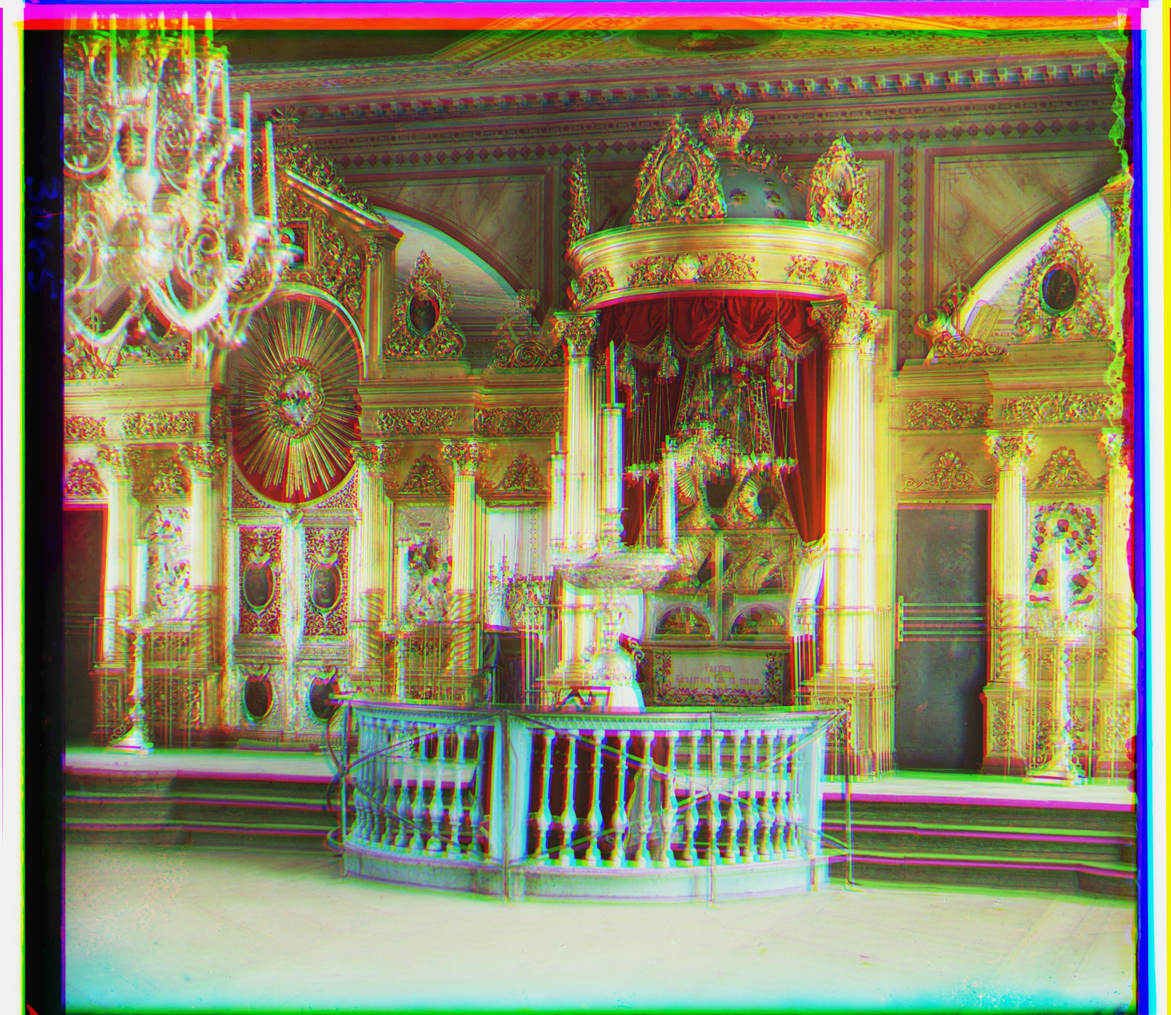
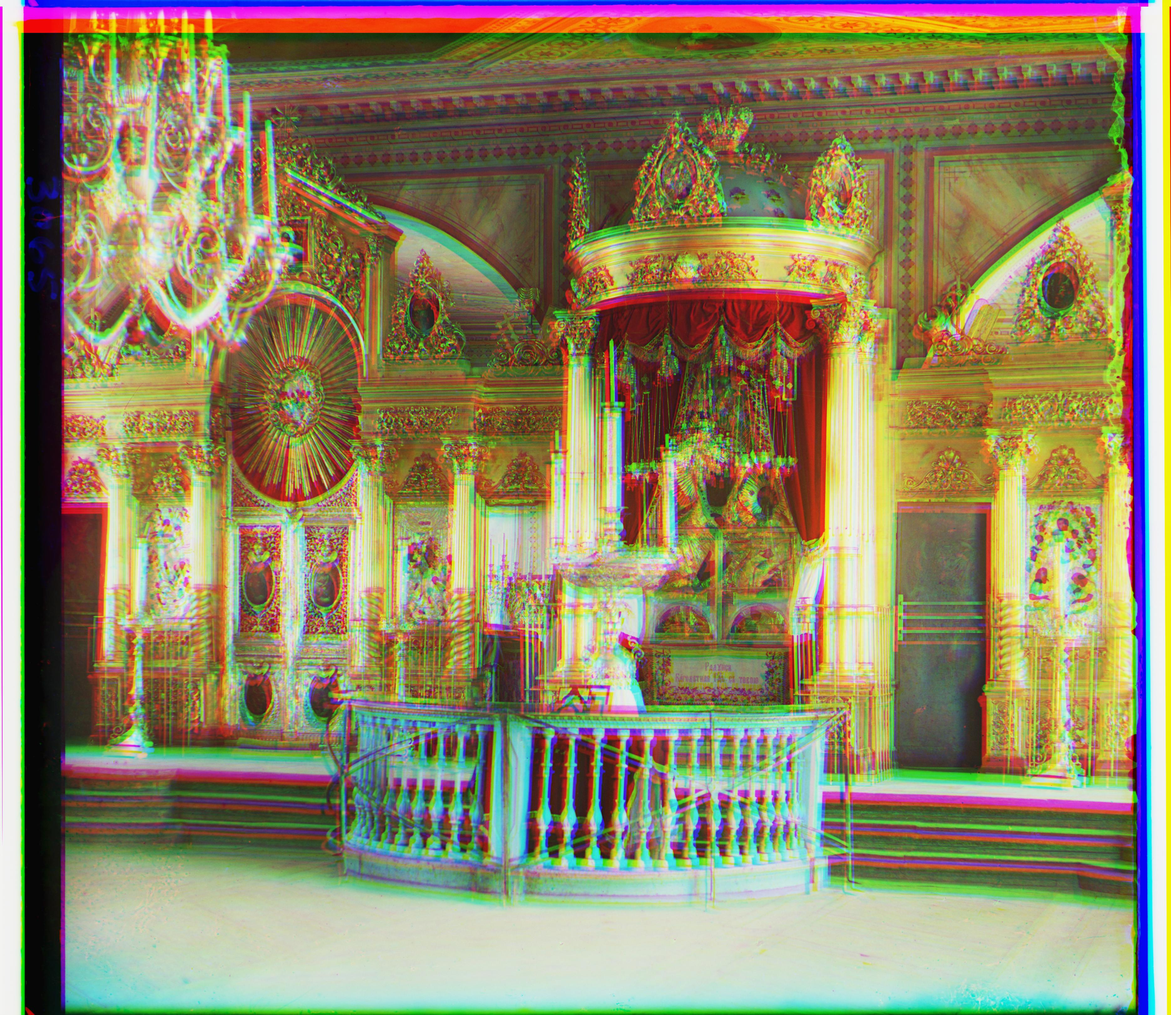
SSD switch + deeper recursion'

diff --git a/index.html b/index.html
@@ -111,17 +111,17 @@
     </div>
     <div class="column">
       <img src="out/emir.jpg" alt="Emir" style="width:100%">
-      <p style="text-align: center; font-size: 15px;">emir.tif | G: (4, -2), R: (8, 129)</p>
+      <p style="text-align: center; font-size: 15px;">emir.tif | G: (4, -2), R: (9, 53)</p>
     </div>
     <div class="column">
       <img src="out/harvesters.jpg" alt="Harvesters" style="width:100%">
-      <p style="text-align: center; font-size: 15px;">harvesters.tif | G: (0, 82), R: (1, 127)</p>
+      <p style="text-align: center; font-size: 15px;">harvesters.tif | G: (-2, 59), R: (-1, 128)</p>
     </div>
   </div>
   <div class="row">
     <div class="column">
       <img src="out/icon.jpg" alt="Icon" style="width:100%">
-      <p style="text-align: center; font-size: 15px;">icon.tif | G: (9, 25), R: (1, 95)</p>
+      <p style="text-align: center; font-size: 15px;">icon.tif | G: (8, 21), R: (-3, 105)</p>
     </div>
     <div class="column">
       <img src="out/lady.jpg" alt="Lady" style="width:100%">
@@ -129,27 +129,27 @@
     </div>
     <div class="column">
       <img src="out/melons.jpg" alt="Melons" style="width:100%">
-      <p style="text-align: center; font-size: 15px;">melons.tif | G: (5, 45), R: (-1, 148)</p>
+      <p style="text-align: center; font-size: 15px;">melons.tif | G: (2, 41), R: (-2, 148)</p>
     </div>
   </div>
   <div class="row">
     <div class="column">
       <img src="out/onion_church.jpg" alt="Onion Church" style="width:100%">
-      <p style="text-align: center; font-size: 15px;">onion_church.tif | G: (1, 49), R: (19, 79)</p>
+      <p style="text-align: center; font-size: 15px;">onion_church.tif | G: (11, 26), R: (1, 54)</p>
     </div>
     <div class="column">
       <img src="out/self_portrait.jpg" alt="Self Portrait" style="width:100%">
-      <p style="text-align: center; font-size: 15px;">self_portrait.tif | G: (-1, 25), R: (13, 85)</p>
+      <p style="text-align: center; font-size: 15px;">self_portrait.tif | G: (-1, 25), R: (1, 66)</p>
     </div>
     <div class="column">
       <img src="out/three_generations.jpg" alt="Three Generations" style="width:100%">
-      <p style="text-align: center; font-size: 15px;">three_generations.tif | G: (2, 26), R: (1, 131)</p>
+      <p style="text-align: center; font-size: 15px;">three_generations.tif | G: (2, 26), R: (4, 54)</p>
     </div>
   </div>
   <div class="row">
     <div class="column">
       <img src="out/train.jpg" alt="Train" style="width:100%">
-      <p style="text-align: center; font-size: 15px;">train.tif | G: (-4, 86), R: (-1, 119)</p>
+      <p style="text-align: center; font-size: 15px;">train.tif | G: (-3, 69), R: (-1, 119)</p>
     </div>
     <div class="column">
       <img src="out/workshop.jpg" alt="Workshop" style="width:100%">
